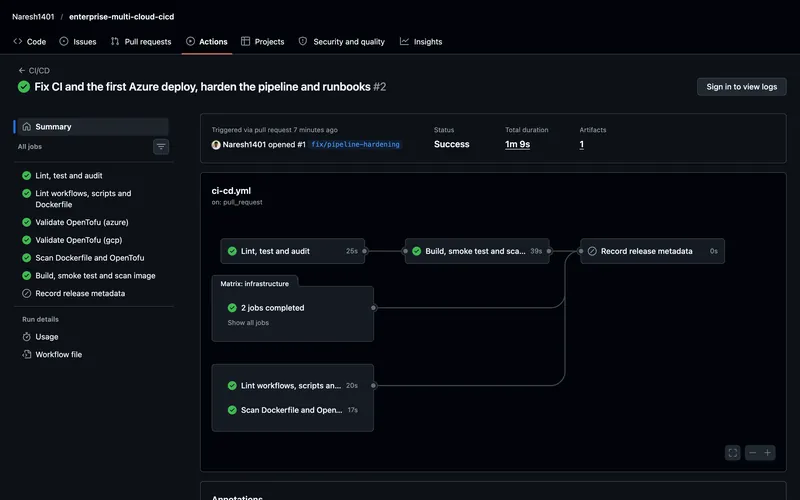
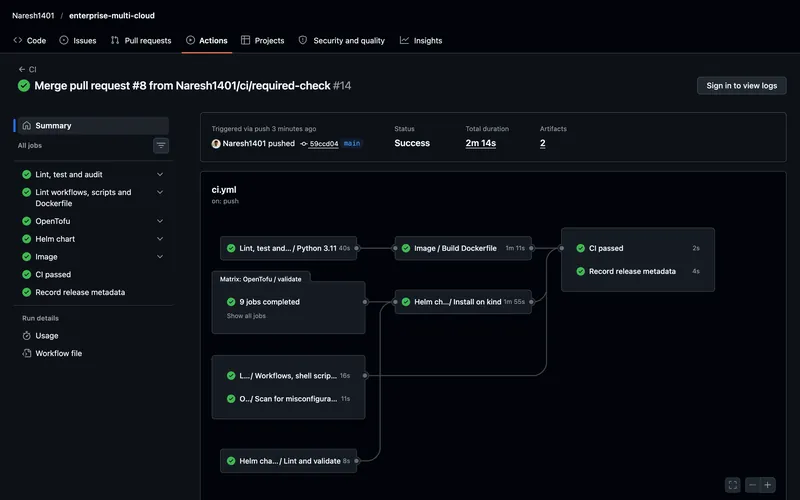
Show the current Enterprise Multi-Cloud pipeline run on its card

diff --git a/index.html b/index.html
@@ -2765,7 +2765,7 @@ ninja-keys {
     <div class="spotlight-wrap reveal">
         <article class="project project--spotlight project--closing card lift spot tone-cyan" data-categories="devtools">
           <button type="button" class="shot spotlight-shot" aria-label="Enlarge screenshot: Enterprise Multi-Cloud">
-            <img src="images/projects/multi-cloud-cicd.webp" data-zoom-src="images/projects/multi-cloud-cicd@2x.webp" alt="GitHub Actions run for Enterprise Multi-Cloud: every job passed, from lint and tests to OpenTofu validation for Azure and GCP, Trivy scans and the container smoke test" width="800" height="500" loading="lazy" decoding="async"/>
+            <img src="images/projects/multi-cloud-cicd.webp" data-zoom-src="images/projects/multi-cloud-cicd@2x.webp" alt="GitHub Actions run for Enterprise Multi-Cloud: every check passed, from lint and tests to nine OpenTofu validations, the image build, the Helm chart's kind install and Trivy scans, ending in the CI passed check" width="800" height="500" loading="lazy" decoding="async"/>
             <span class="shot-hint" aria-hidden="true"><svg class="icon i-maximize-2"><use href="#i-maximize-2"/></svg> Enlarge</span>
           </button>
           <div class="spotlight-main">
